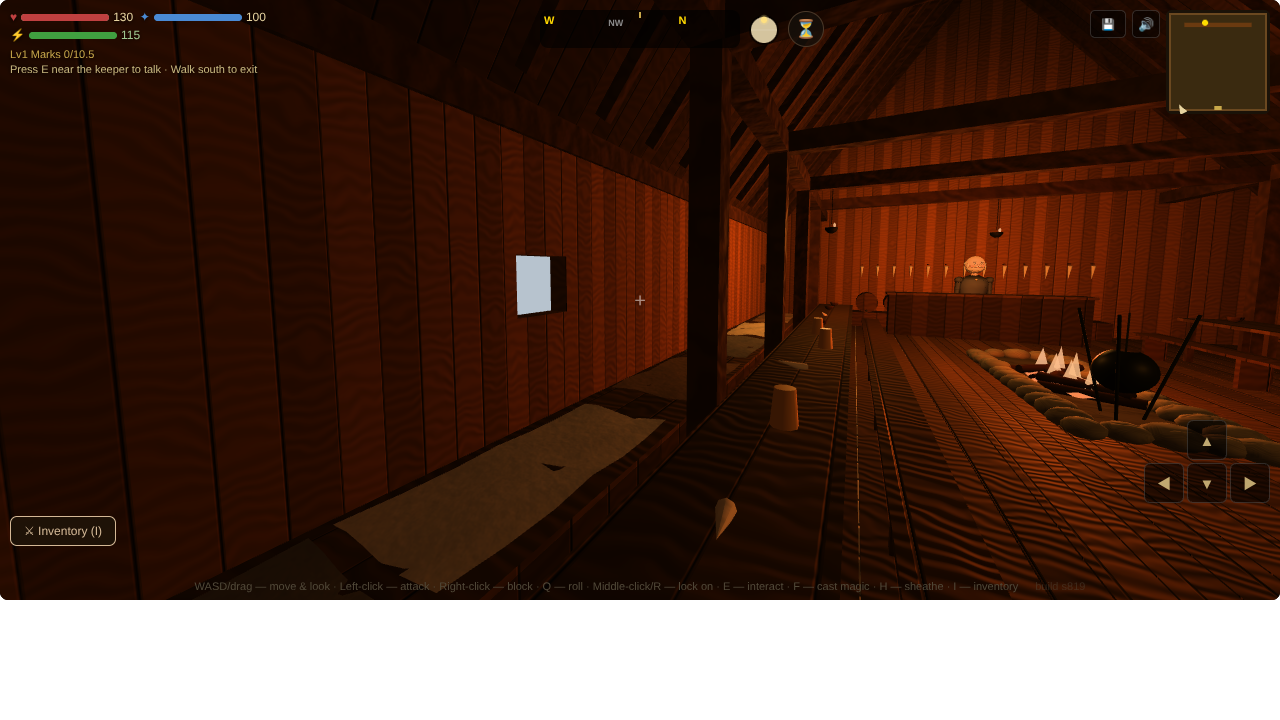
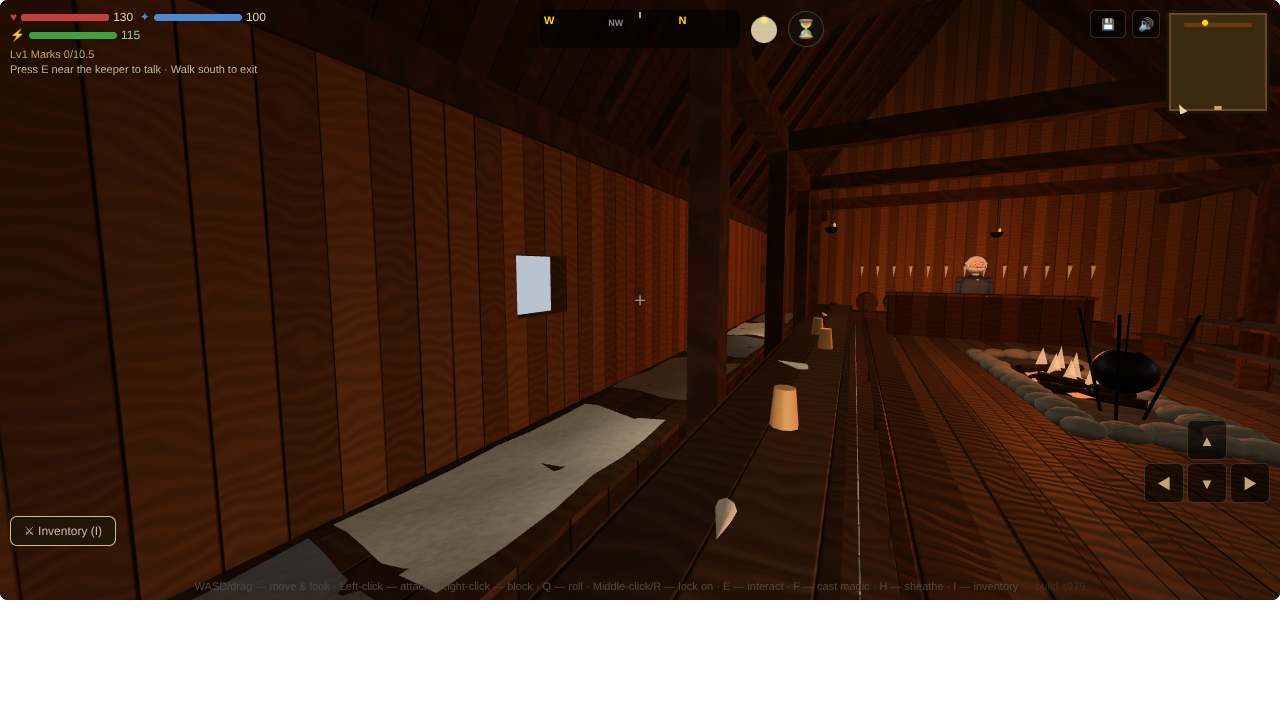
Session 1505: the day in through the Mark's alehall's windows and door (14 → 25 at noon)
Claude-Session: https://claude.ai/code/session_019eFMMnFYkhQexhWHrfEwtk

diff --git a/js/83-world-generator.js b/js/83-world-generator.js
@@ -2286,6 +2286,10 @@ function shellFrame(sc_,o){const {W,D,H,type,st,wallKind,FN,FSEED,beams,wins,TAL
     {const hr=typeof gameHour==='function'?gameHour():12,day=hr>=7&&hr<18?0xc4d0dc:hr>=5&&hr<20?0x8a7a7a:0x0e1420,M=new THREE.MeshBasicMaterial({color:day});
       const n=Math.max(1,Math.floor(T.d/4));for(let i=0;i<n;i++){const z=-T.d/2+(i+.5)*T.d/n;for(const sx of [-1,1]){const m=new THREE.Mesh(new THREE.PlaneGeometry(.7,.6),M);m.position.set(rx(sx*(T.w/2+.08)),ry(FY+1.55),rz(z));m.rotation.y=-sx*Math.PI/2;m.userData.daylight=true;sc_.add(m);}}
       const m=new THREE.Mesh(new THREE.PlaneGeometry(T.door.w+.1,T.door.h+.1),M);m.position.set(rx(T.door.x),T.door.h/2,rz(T.door.z)+.08);m.rotation.y=Math.PI;m.userData.daylight=true;sc_.add(m);}
+    // S1504 — and the day in through them, as the longhouse's (S1490's kitDaylight): a sky spot inside each window and the open door. From
+    // the arrival the hall read 14 at noon and at 23h alike
+    {const n=Math.max(1,Math.floor(T.d/4));kitDaylight(sc_,[...Array.from({length:n},(_,i)=>-T.d/2+(i+.5)*T.d/n).flatMap(z=>[-1,1].map(sx=>({x:rx(sx*X),y:1.55,z:rz(z),nx:-sx,nz:0,w:.6,h:.5}))),
+      {x:rx(T.door.x),y:T.door.h*.7,z:D,nx:0,nz:-1,w:T.door.w,h:T.door.h}]);}
     // the light: the long fire, the three iron lamps over the tables and the aisle, and the hall's warmth
     const KA=kitRoomAir(sc_,.4);
     const L=(x,y,z,c,i,d)=>{const l=new THREE.PointLight(c,i*(c===0xff6a20?KA.fire:KA.lamp),d);l.position.set(x,y,z);sc_.add(l);return l;};

diff --git a/docs/backlog.md b/docs/backlog.md
@@ -625,7 +625,7 @@ Michael marked all 96 images of the intake on the review page: 63 KEEP and 33 NO
 - **Weather that matters** (`WX` and `tickWeather`, card F3's shaders; OG-138): blizzard, dust storm, aurora and rainbows beside the six kinds the game has; fog and snow cutting sight, mud slowing a horse, rain masking sound for sneaking, wind bending arrows, rivers swelling; puddles and a wet sheen, trees and banners in the wind, snow building on steps and melting. A gate storm (a blue spiral of cloud over a gate) as a sign of the corruption level. **OG-138's conditions as a prototype, 24 Oct 2026** (concept artist; `docs/prototypes/levelup/weather.html`, `docs/concepts.md`): the nine conditions, a rainbow and the gate storm as one row of numbers each over the Gatelands lane (a cloud deck, rain and snow, the wet and puddles, a bolt, the bow, a pennant), the Gatelands only; how far bad weather closes the view is DECISION #679. ~~How far each weather closes the view, and the foes' sight with it~~ — **done, Session 1420** (Michael's C on #679: `WX_SIGHT`, clear 2,400 m, overcast 1,100, rain 500, a storm 220, snow 400, fog 60; the fog's floor √3 / sight and no nearer; `canSeePlayer` capped at it in the open; `tests/weather`). ~~Heavy rain and the blizzard (280 m and 70 m), each a chance by place and season~~ — **done, Session 1433** (Michael's A on #723, a fifth: `heavyWx`, 7.5% of the Mark's winter rolls a blizzard, a tundra 10%; 4% of the Gatelands' autumn heavy rain, a fen 6%; snow and rain with `WX.heavy`, denser and driven, the sight 70 and 280 m; `tests/weather`, `tests/seasonwx`). Owed: their own look on card F3 (the driven snow's streaks, the heavier rain on the new look's shaders).
 - **Seasons in the land** (card F3's tree and grass kit; OG-139): blossom and new grass, full canopy, leaves turning and falling, bare trees in snow; muddy spring roads, dry summer ones; spring markets and harvest stalls; seasonal goods (morels and watercress, berries, mushrooms and nuts, winter herbs). Autumn colour is the Gatelands' alone, and Aurenne's snow stays on its eastern range (§1.1, §1.3). **The four seasons as a prototype, 21 Oct 2026** (concept artist; `docs/prototypes/levelup/seasons.html`, `docs/concepts.md`): leaves, twigs, snow and frost, litter, flowers and light as one row of numbers a season, the Gatelands only; how much the Gatelands change (OG-139 against OG-140's green all year) is DECISION #579.
 - **Each island's air** (card F3's terrain shading and `groundColor`; OG-140): the Gatelands misty, ancient, green all year and changeable, with bogs and floods; the Mark wild and crisp, fjords with falls, heather valleys, frozen lakes, avalanches and blizzards; Aurenne warm and open, olive groves, sea caves and arches, heat, drought and summer wildfires, a volcanic south (Tine's great gate). The islands stay where the canon puts them (L5). **The three islands' air as a prototype, 25 Oct 2026** (concept artist; `docs/prototypes/levelup/air.html`, `docs/concepts.md`): light, sky, haze, grade, land colour, water and trees as one row of numbers an island, over one viewpoint each; how far apart the three should look is DECISION #719.
-- **Light indoors** (cards F2 and F3, `buildInteriorFor`; OG-141): daylight through windows at four times; the hearth, candles and lanterns for small pools of light, torches on corridor walls, a ring chandelier for halls; a cottage lit by its hearth, a longhouse shut and fire-lit, an Aurennais house open to the sea; a tavern warm and crowded in the evening; dust in the beams, reflections on wet stone, magic light from a hand. Warm and inviting against cold and unsettling, the 12 Oct answer in two frames. **Three rooms lit by one rule as a prototype, 26 Oct 2026** (concept artist; `docs/prototypes/levelup/light.html`, `docs/concepts.md`): the openings, fires and lamps read from each room's own record, the sun's patches and dust in the beams, four hours and a hand's light; how bright a room is by night against the day is DECISION #765. Michael's C (*the lights, with the eye half open*). Carried into the game room by room: the day in through each opening (`kitDaylight`), the longhouse and the barn in Session 1490, the byre in Session 1493 (26 → 57 at noon). Measured in Session 1493 from the arrival, noon/23h: the cottage 152/139 (the night nearly the day's, against C's 0.66; the fire's reach, not the openings: the windows' spots added 12 at most), the townhouse 120/55, the farmhouse 127/55; in Session 1504 the village taproom 19/27 (darker by day than by night: no openings lit), now 40/27 with a sky spot in its door and each window at 0.4, and the coaching room 106/89, left as it is; the night's eye (`landPost`'s exposure) still owed. **The halls' fixtures as a prototype, 27 Oct 2026** (concept artist; `docs/prototypes/levelup/halls.html`, `docs/concepts.md`): torches, candle sconces, lamp stands and wall lamps over the guild hall, the Mark's alehall, Aurenne's tavern and the inn's crowded evening, under C; which fixtures a hall carries (A the room's own, B torches everywhere, C by island) is the DECISION in that entry.
+- **Light indoors** (cards F2 and F3, `buildInteriorFor`; OG-141): daylight through windows at four times; the hearth, candles and lanterns for small pools of light, torches on corridor walls, a ring chandelier for halls; a cottage lit by its hearth, a longhouse shut and fire-lit, an Aurennais house open to the sea; a tavern warm and crowded in the evening; dust in the beams, reflections on wet stone, magic light from a hand. Warm and inviting against cold and unsettling, the 12 Oct answer in two frames. **Three rooms lit by one rule as a prototype, 26 Oct 2026** (concept artist; `docs/prototypes/levelup/light.html`, `docs/concepts.md`): the openings, fires and lamps read from each room's own record, the sun's patches and dust in the beams, four hours and a hand's light; how bright a room is by night against the day is DECISION #765. Michael's C (*the lights, with the eye half open*). Carried into the game room by room: the day in through each opening (`kitDaylight`), the longhouse and the barn in Session 1490, the byre in Session 1493 (26 → 57 at noon). Measured in Session 1493 from the arrival, noon/23h: the cottage 152/139 (the night nearly the day's, against C's 0.66; the fire's reach, not the openings: the windows' spots added 12 at most), the townhouse 120/55, the farmhouse 127/55; in Session 1504 the village taproom 19/27 (darker by day than by night: no openings lit), now 40/27 with a sky spot in its door and each window at 0.4, and the coaching room 106/89, left as it is; in Session 1505 the Mark's alehall 14/14, now 25/14 with the longhouse's spots in its eight windows and door; the night's eye (`landPost`'s exposure) still owed. **The halls' fixtures as a prototype, 27 Oct 2026** (concept artist; `docs/prototypes/levelup/halls.html`, `docs/concepts.md`): torches, candle sconces, lamp stands and wall lamps over the guild hall, the Mark's alehall, Aurenne's tavern and the inn's crowded evening, under C; which fixtures a hall carries (A the room's own, B torches everywhere, C by island) is the DECISION in that entry.
 - **Animals by the hour** (systems, after L3's animals; OG-142, Michael's note): deer moving at dawn, predators at dusk, an owl at night; wolves running deer through snow, the rut, geese passing; animals sheltering from rain, fog hiding them; tracks in snow, a nest of eggs; a spirit stag as a rare sight (OG-040). No taming.
 - **A town's day** (`tickTownNPCs`, the shops' hours in `60-shop.js`; OG-143): workers fill the streets at dawn and the guard changes, shops open late morning, trade peaks in the afternoon, shops close and taverns fill from five, guards alone at night; three markets by island with prices by place and a black market; passing events (a caravan, a noble's visit, a raid near gate activity, rebuilding); growth and decline, which the prosperity model already runs (§12a). No companions to recruit.
 - **What a place sounds like** (`76-music.js`, `72-audio.js`, `tickFootsteps`; OG-144): a palette per island (wind in grass, streams and church bells; howling gusts, ravens and creaking timber; surf, gulls and a market); a village, a tavern, a keep in layers; rain muffling the world, fog damping it; footsteps by ground (stone, wood, mud, snow); a stable gate's low hum and an unstable gate's distorted whispers, so a gate's condition is heard before it is seen.

diff --git a/docs/devlog/1505.md b/docs/devlog/1505.md
@@ -1,0 +1,25 @@
+## v80 — Session 1505 — the day in through the Mark's alehall; the alehall measured (#765 C)
+The next room measured from S1504's list, the same way (`goToInterior`, the arrival's facing, the canvas's median on 0–255). The
+Mark's alehall (`buildKitAlehall`; The Black Heron, the first Markish settlement whose inn takes it, 9.5 by 17.5 m) read **14 at noon
+and 14 at 23h**. That is as dark as Dáire's longhouse was before S1490 (17), and for the same reason. The hall has the longhouse's
+shuttered side windows (one every 4 m, 0.6 by 0.5) and an open door, each with its day plane outside, but no sky came in through
+them. The frame is the long fire, three iron lamps and the room's air, and by day the lamps burn at 0.3.
+
+The alehall now has the longhouse's line: a sky spot inside each of the eight windows and the door, at the full share, as S1490 set
+it for the longhouse. That reads **25 at noon**, and the night is unchanged at 14 (0.56, plainly night). The windows are small
+(0.6 each), and the door's spot is held at the cap of 6 (5.04 here), so a 17.5 m hall stays dim by day. That suits a Markish
+hall of wood and smoke. The longhouse reads 37, but its arrival looks across a smaller room.
+
+The Aurennais tavern and the town church hall were not reached. The probe went on to them without leaving the alehall, and the ports
+never built from inside it (the settle waited out its 180 s at each). They are next.
+
+### Verified (headless Chromium)
+- A probe (`tests/tmp`, not kept): the alehall from the arrival 14 → 25 at noon, 14 → 14 at 23h. 9 sky spots (8 at 0.60, the door 5.04).
+  `docs/prototypes/kit-alehall-arrive-day.png`.
+- `alehallroom` 1/1, with a new check: at noon one sky spot for each of the 8 windows and one for the door, all inside the hall.
+  Its "lit" check now counts 30 lights (spots and their targets among them) against its floor of 4.
+### Needs eyes
+- Whether 25 reads right for a Markish alehall at noon. The full share was kept to match the longhouse's. The first-person hands,
+  1.4 m from the door's spot, read nearly white at noon, as the taproom's did at 0.7.
+- Nine more spot lights in the hall by day, so no frame rate on software GL (S1490 noted the same for the longhouse).
+- Still not measured: the Aurennais tavern, the town church hall and the village church.
